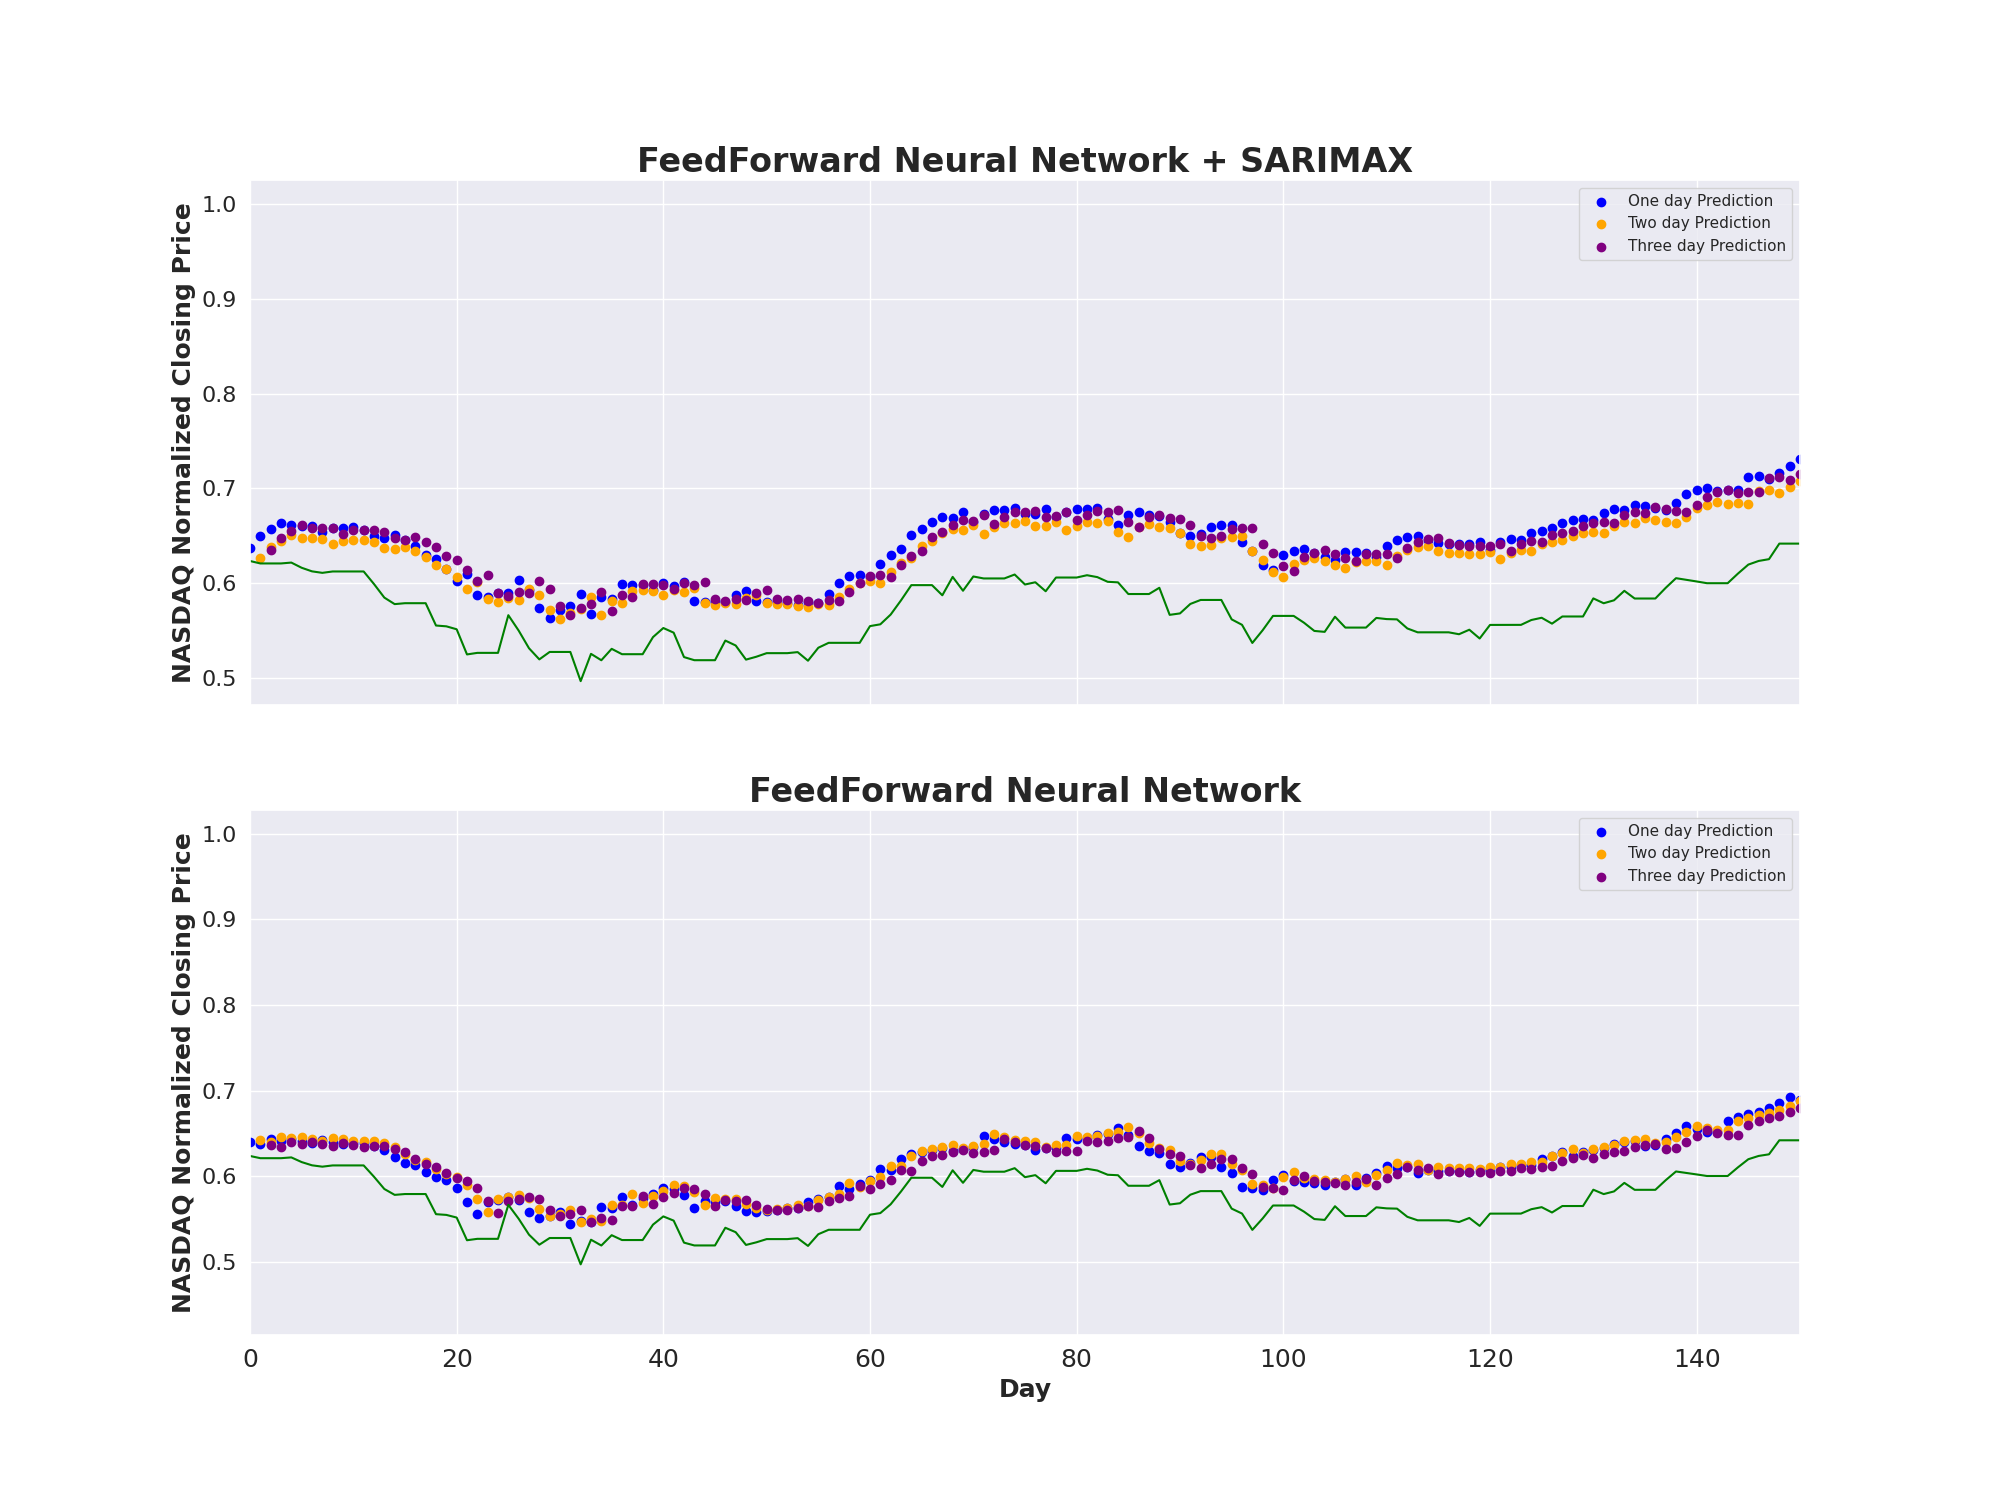
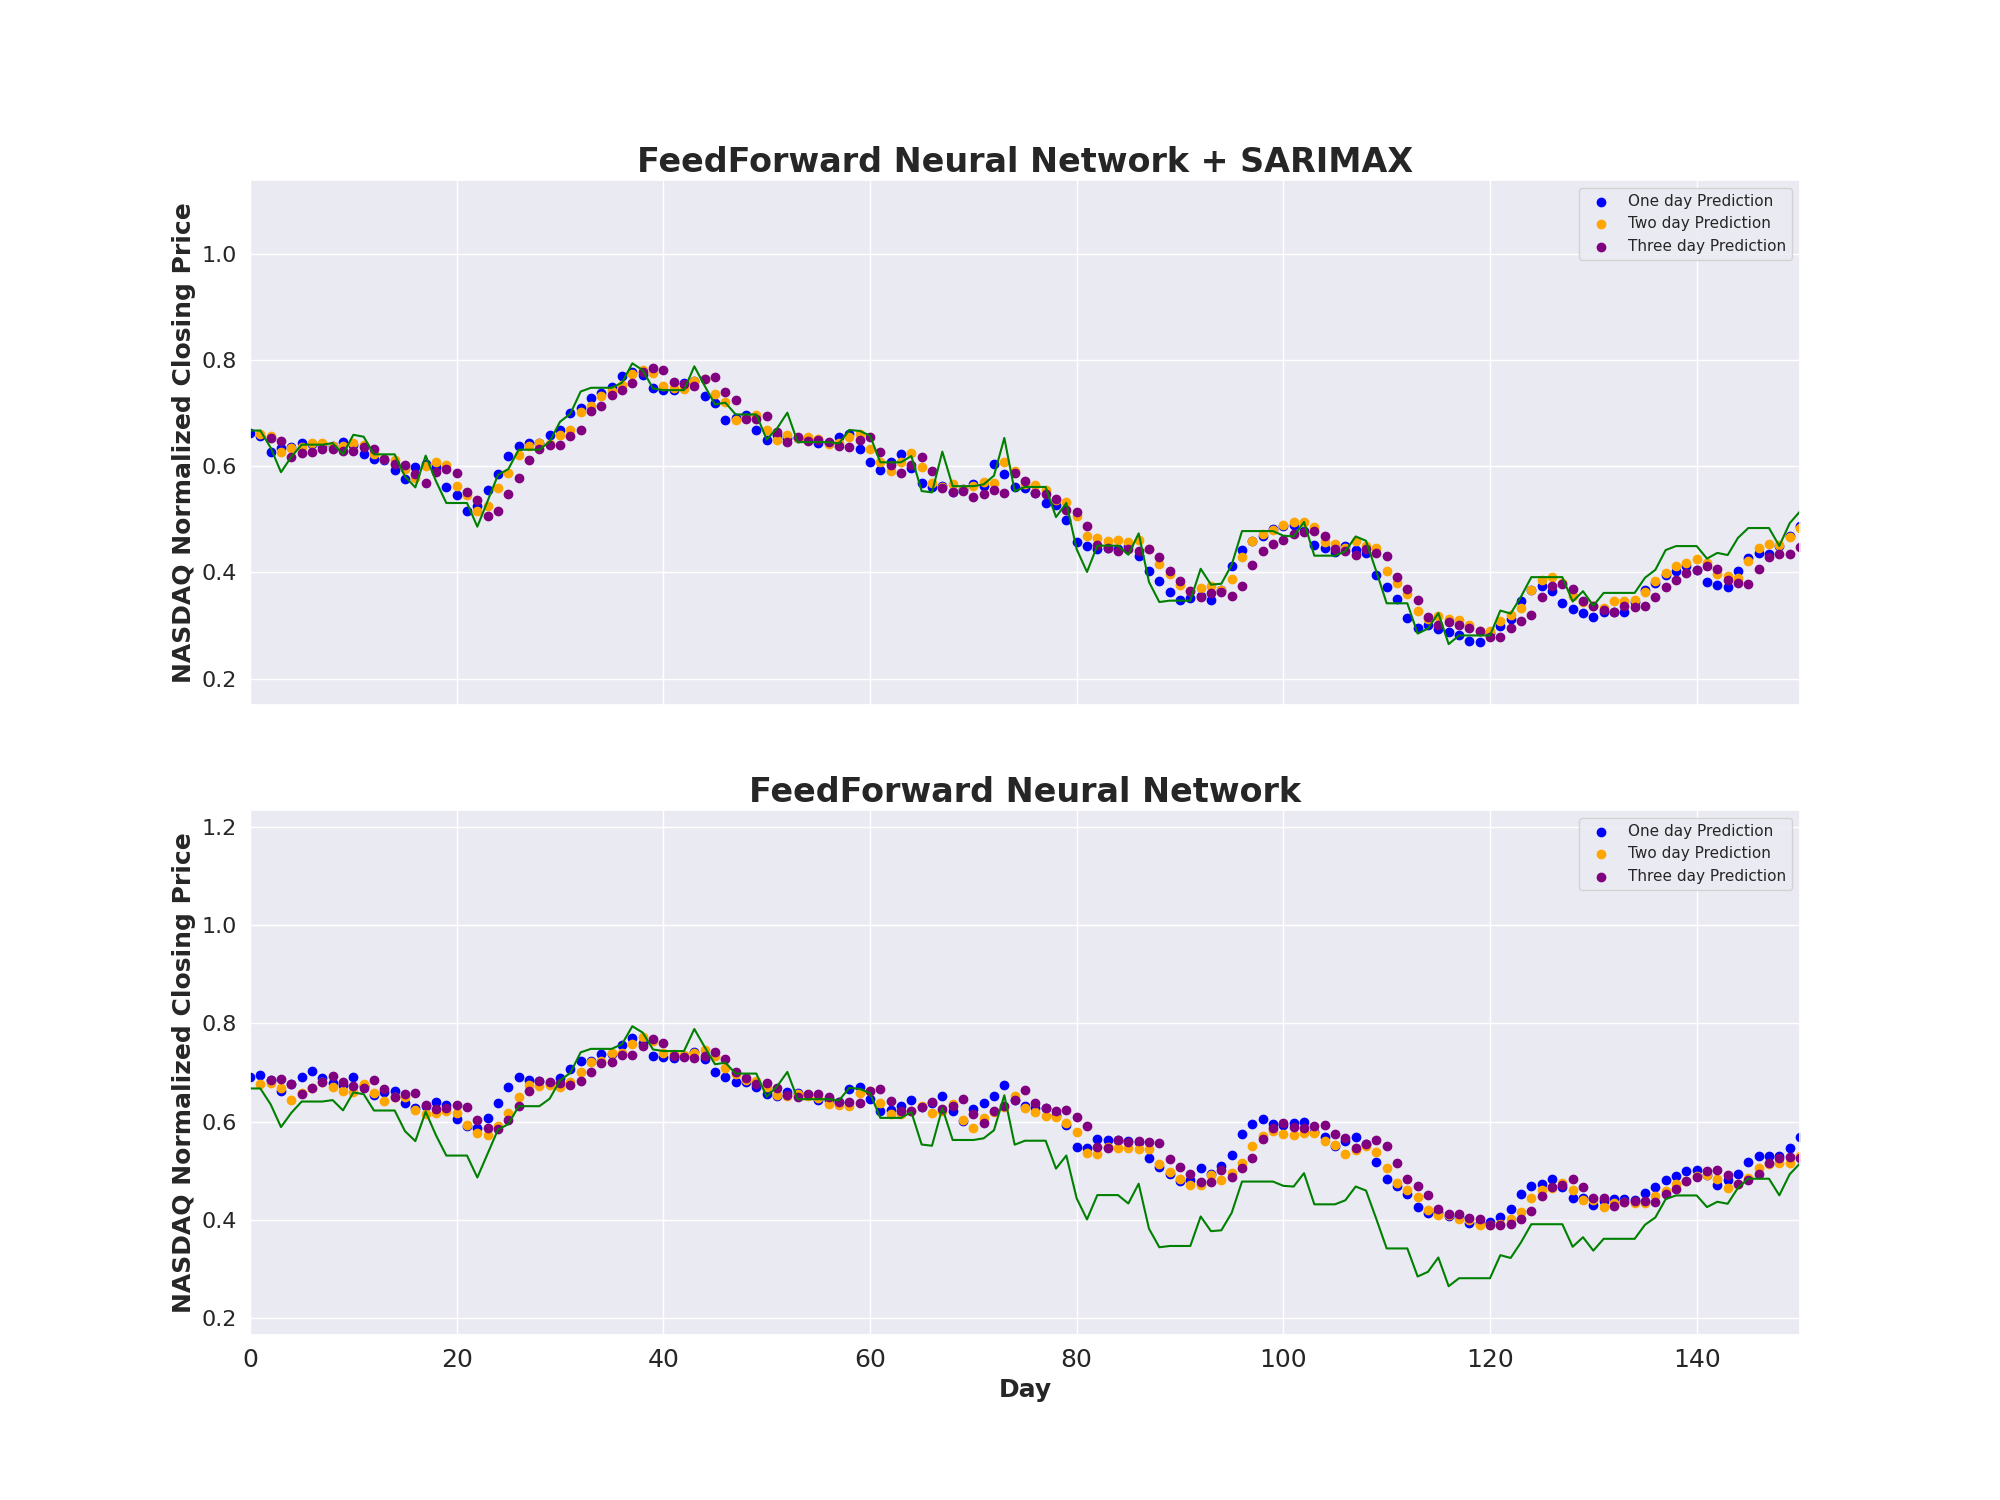
miau

diff --git a/model.py b/model.py
@@ -60,7 +60,7 @@ class NN(nn.Module):
 
     def sarimax_pred(self,stream):
         self.sarimax = self.sarimax.append([stream[-1]],disp=False)
-        return torch.tensor(self.sarimax.forecast(3),dtype=torch.float)
+        return torch.tensor(self.sarimax.forecast(),dtype=torch.float)
 
     def train(self,num_epochs,x_train_data,y_train_data,autocorr=False,lambda_=0.001):
         if torch.cuda.is_available():
@@ -86,7 +86,7 @@ class NN(nn.Module):
             
             loss = self.criterion(outputs, y_train_data)
             if autocorr:
-                output_first=self.forward_linear(x_train_data)
+                output_first=self.forward_linear(x_train_data)[:,0]
                 loss += self.criterion(output_first,sarimax_predictions_tensor)*lambda_
             
             loss.backward()

diff --git a/main.py b/main.py
@@ -61,7 +61,7 @@ def conver_to_lstm_data(data,sequence_length):
 """
 
 sns.set_theme()
-stocks = yf.download("^IXIC AAPL MSFT AMZN NVDA TSLA GOOGL GOOG META AVGO",period = "60mo")
+stocks = yf.download("^IXIC AAPL MSFT AMZN NVDA TSLA GOOGL GOOG META AVGO",period = "36mo")
 for col in stocks.columns:
     stocks[col]=(stocks[col]-stocks[col].min())/(stocks[col].max()-stocks[col].min())
 
